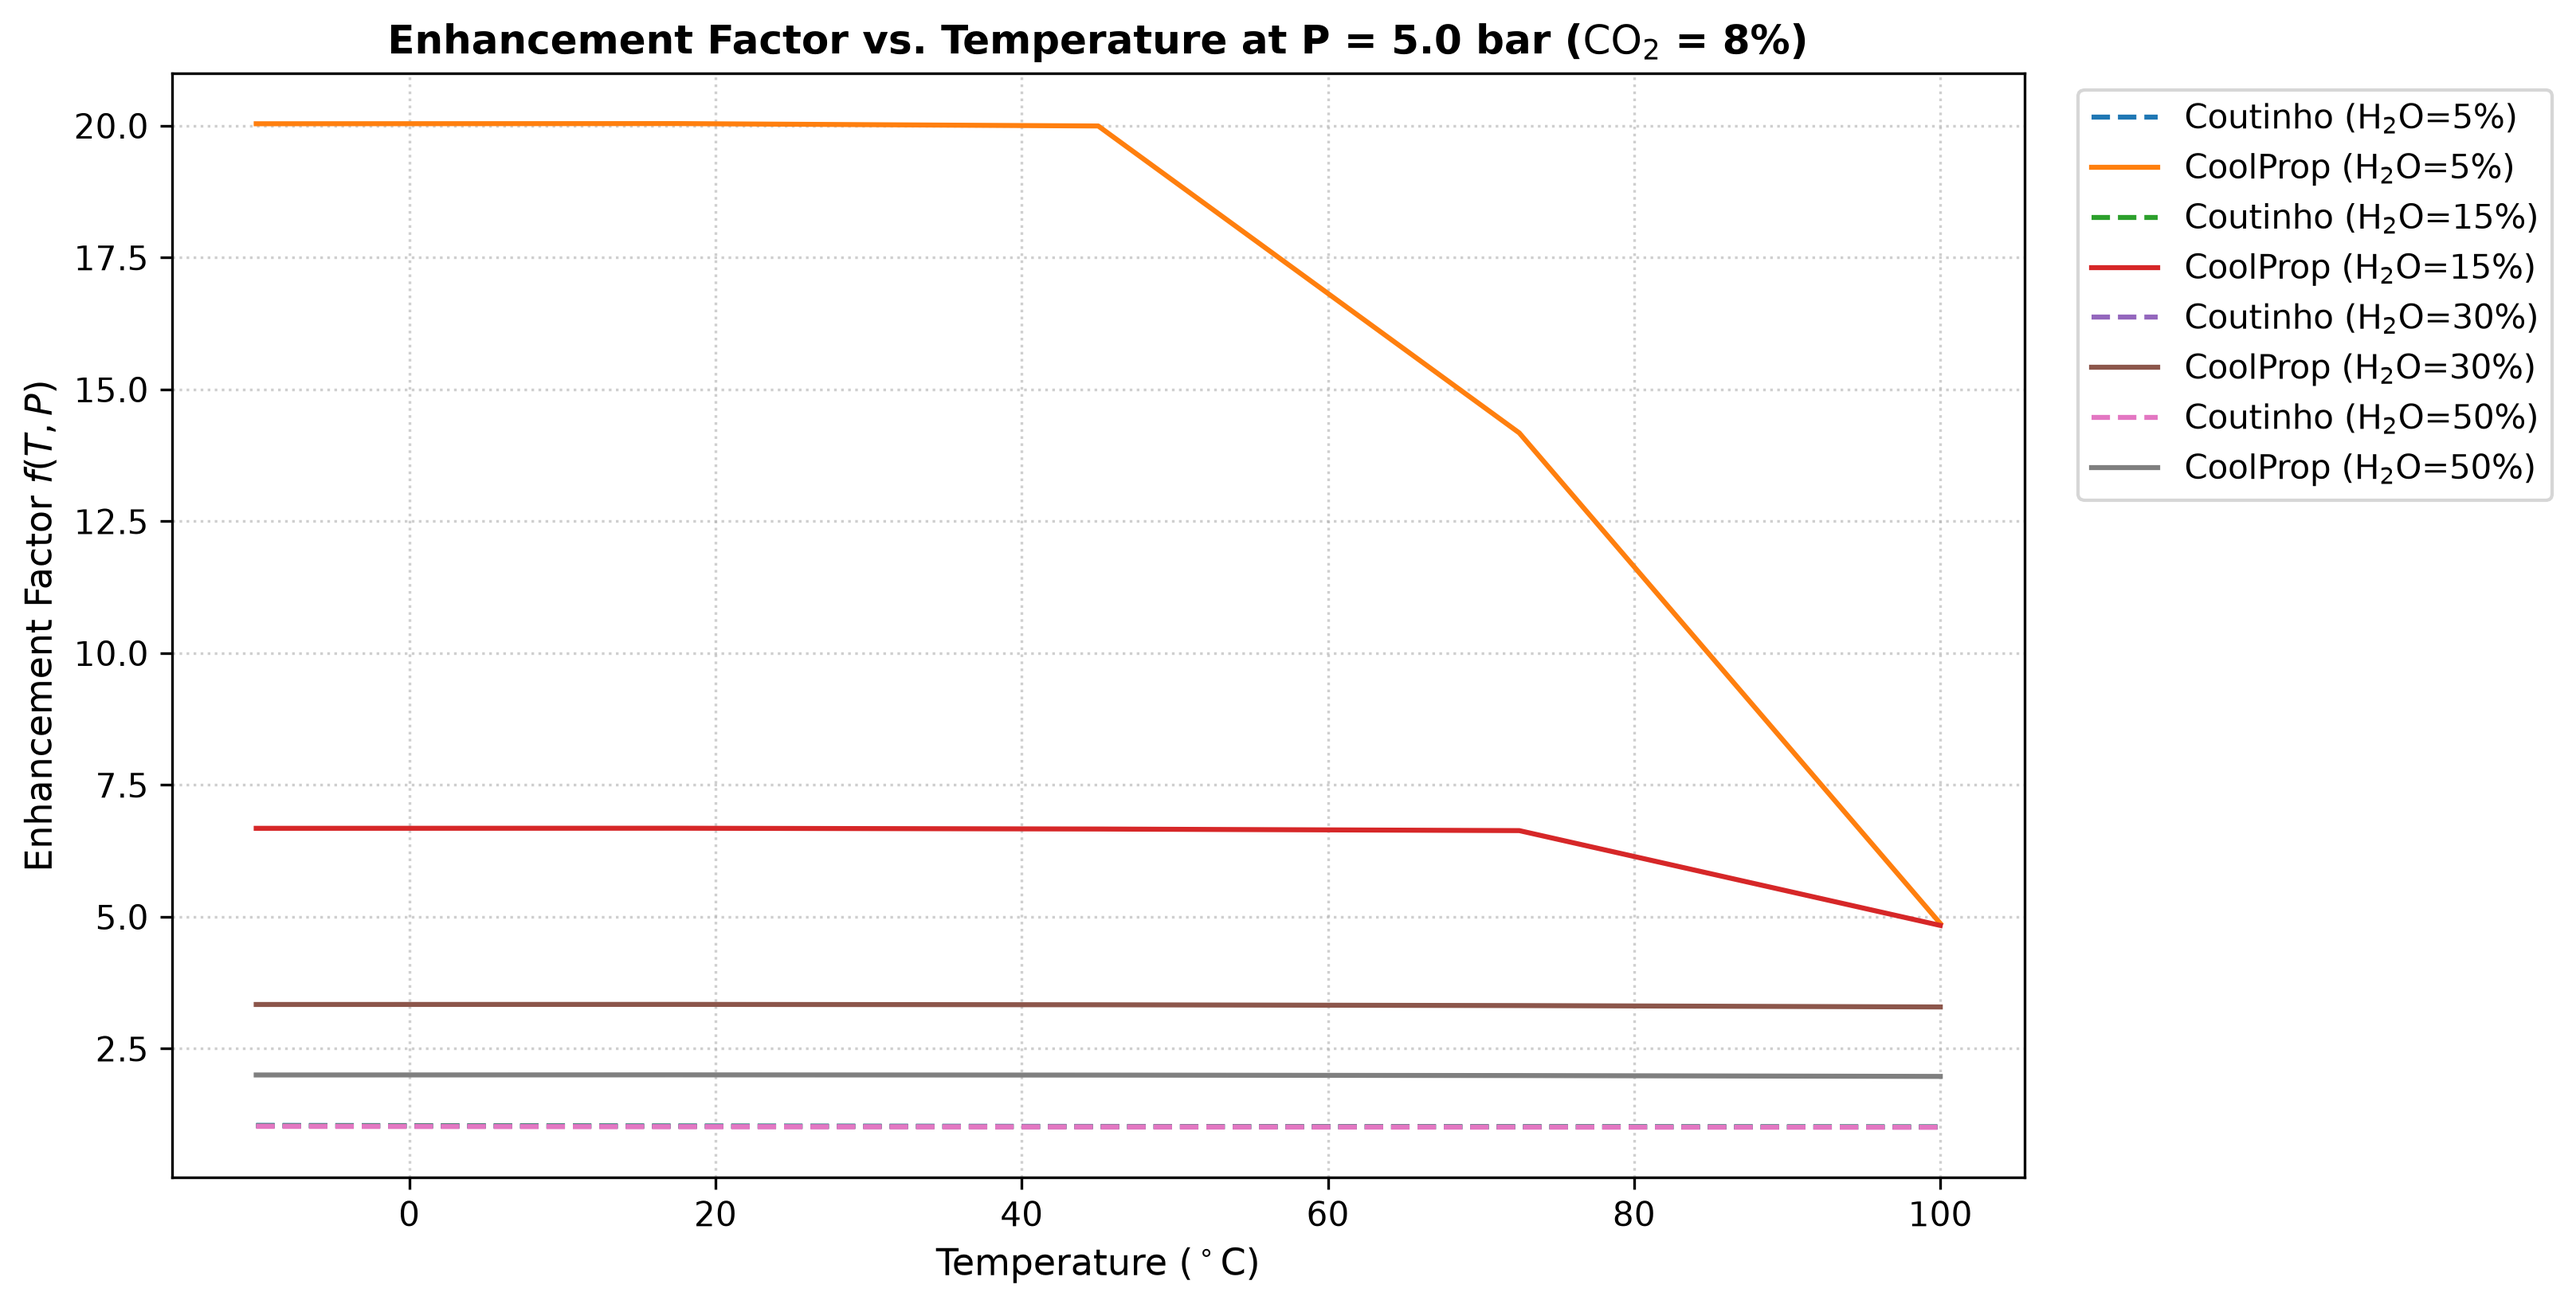
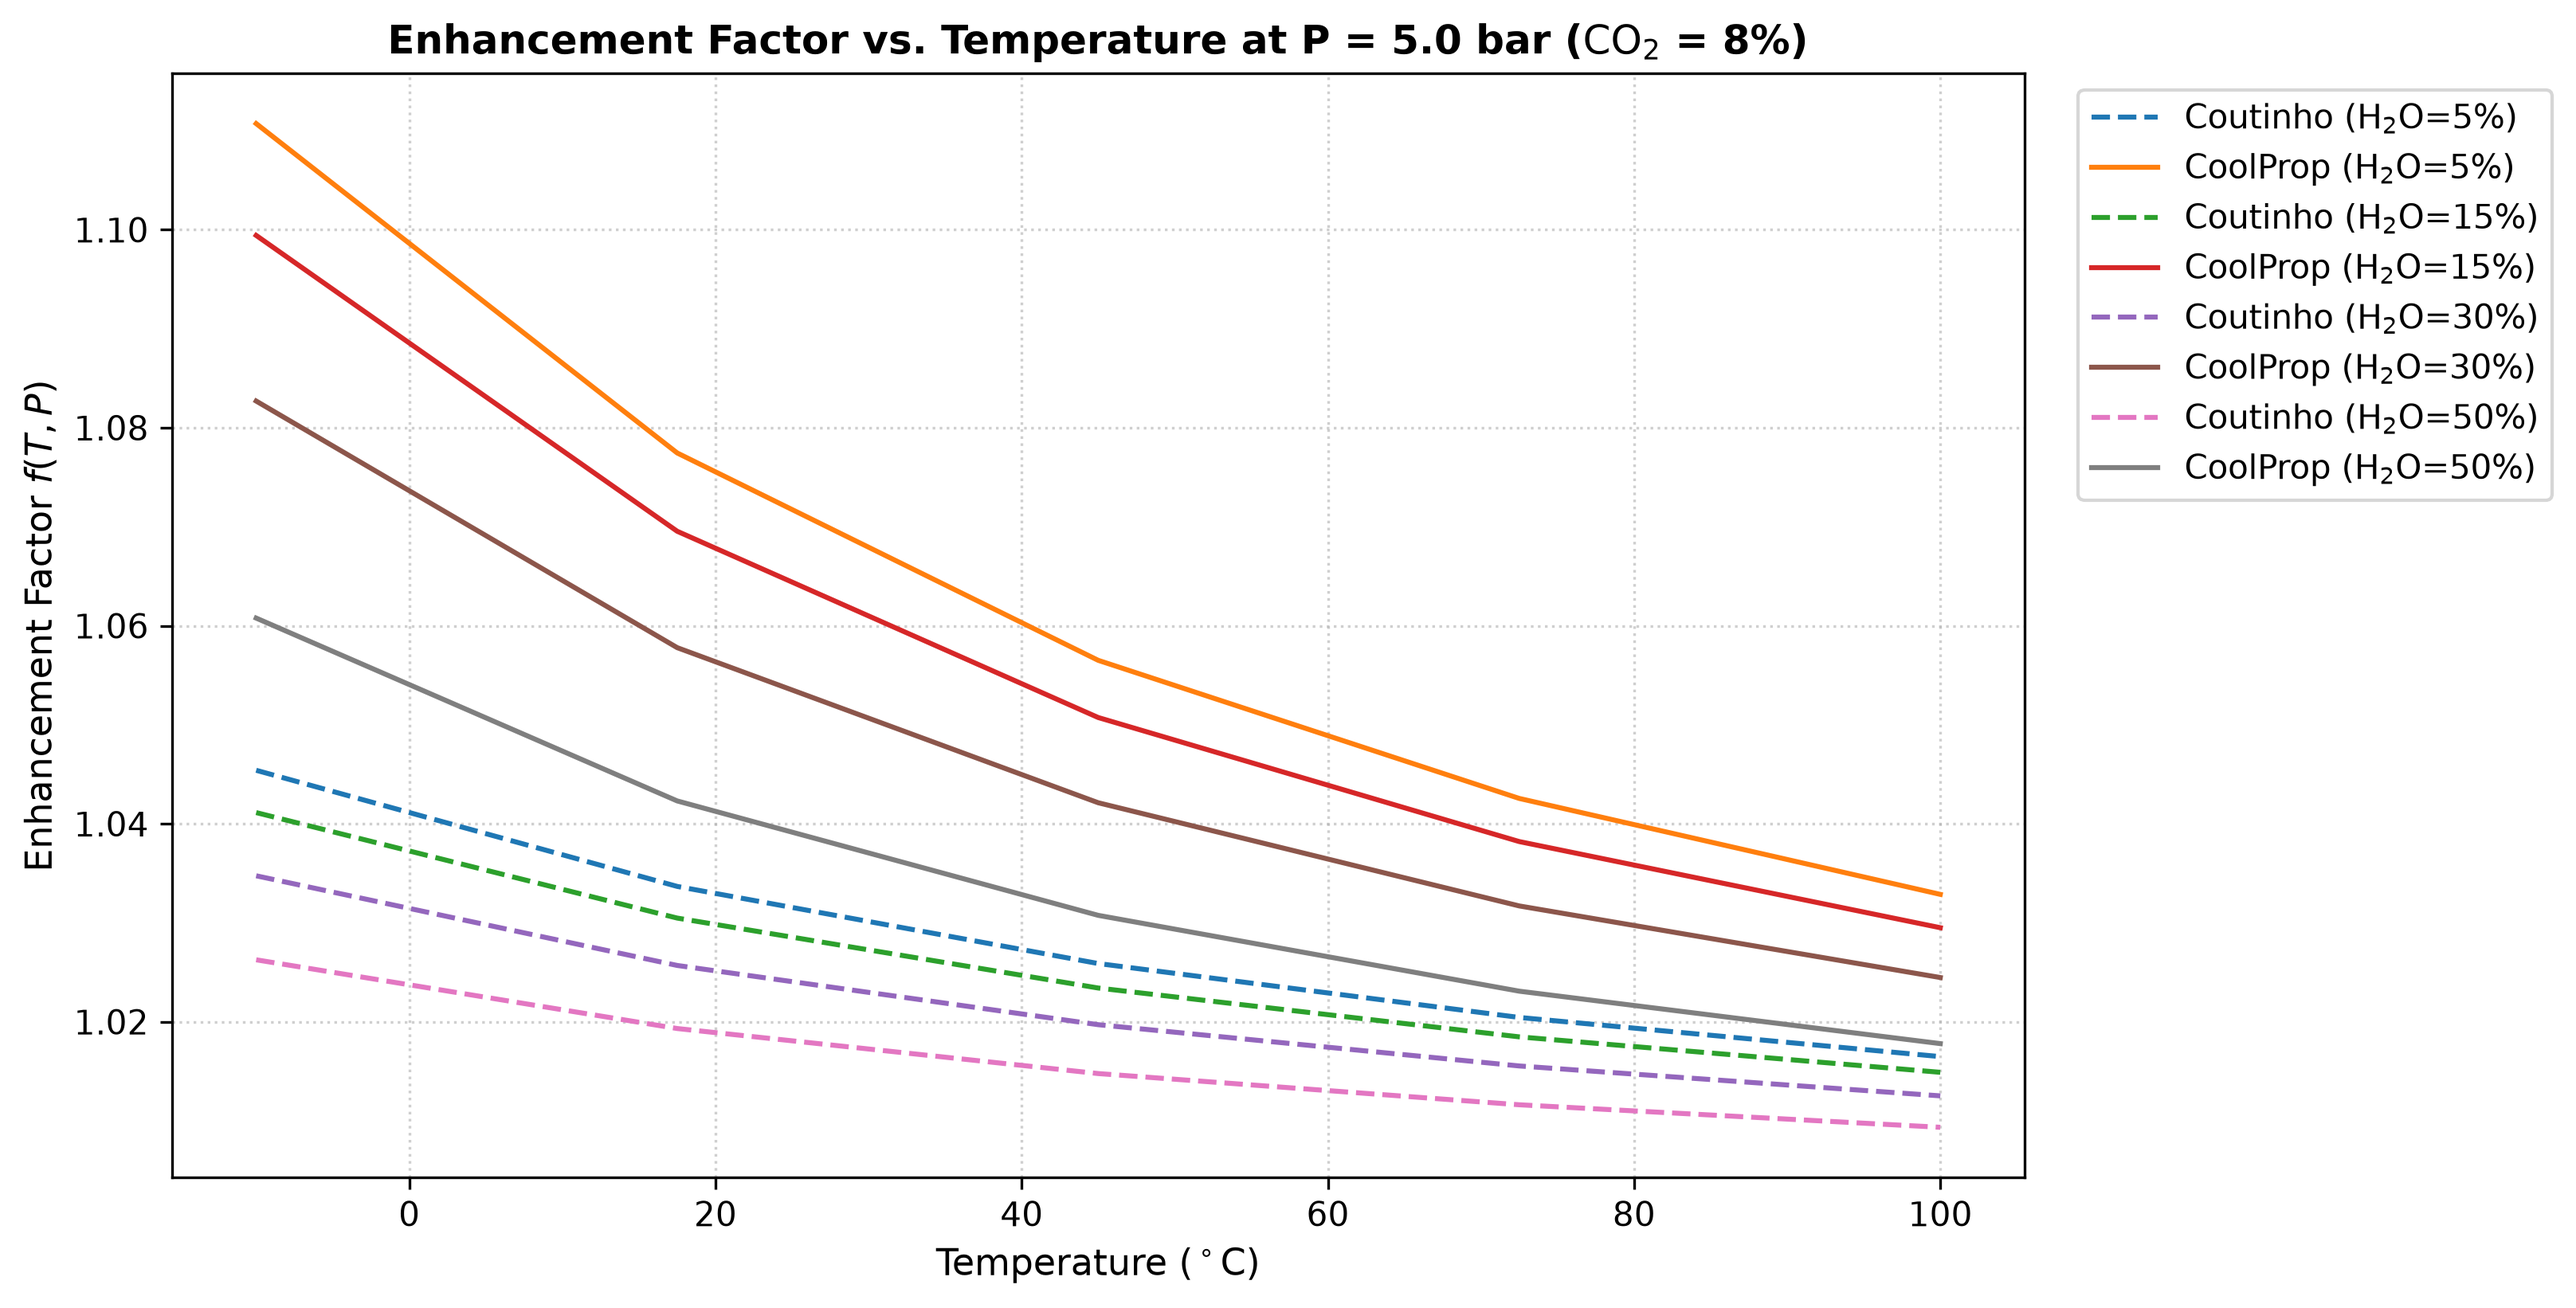
working, finally

diff --git a/benchmark_enhancement.py b/benchmark_enhancement.py
@@ -100,55 +100,54 @@ def f_enhancement_coutinho(T_K, P_bar, y_dict):
 # 3. COOLPROP MODEL IMPLEMENTATION
 # ==============================================================================
 def f_enhancement_coolprop(T_K, P_bar, y_dict):
-    """
-    Computes enhancement factor f(T, P) using CoolProp Cubic Peng-Robinson (PR) model.
-    f = (phi_w_mix * P_total) / (phi_w_pure_sat * P_sat_pure)
-    """
-    P_Pa = P_bar * 1e5
-    y_w = y_dict.get('H2O', 0.0)
+    return f_enhancement_coolprop_gerg_virial(T_K, P_bar, y_dict)
     
+def f_enhancement_coolprop_gerg_virial(T_K, P_bar, y_dict):
+    """
+    Computes f(T, P) using exact GERG-2008 Virial Coefficients extracted from CoolProp.
+    Bypasses phase-flash instability completely.
+    """
+    y_w = y_dict.get('H2O', 0.0)
     if y_w <= 0:
         return 1.0
 
+    v_l = 18.07  # Liquid water molar volume (cm^3/mol)
+    dry_dict = {k: v / (1.0 - y_w) for k, v in y_dict.items() if k != 'H2O'}
+    
     name_map = {'H2O': 'Water', 'CO2': 'CO2', 'N2': 'Nitrogen', 'O2': 'Oxygen'}
     
-    # Clean species list and mole fractions
-    species_list = []
-    mole_fractions = []
-    for comp, mole_frac in y_dict.items():
-        if mole_frac > 0:
-            species_list.append(name_map.get(comp, comp))
-            mole_fractions.append(mole_frac)
-            
+    def get_gerg_B(sp1, sp2, T):
+        """Extracts B_12(T) in cm^3/mol from CoolProp HEOS/GERG2008."""
+        n1, n2 = name_map.get(sp1, sp1), name_map.get(sp2, sp2)
+        if sp1 == sp2:
+            # Pure second virial B(T) in m^3/mol -> convert to cm^3/mol
+            B_m3 = CP.PropsSI('Bvirial', 'T', T, 'P', 1e5, n1)
+            return B_m3 * 1e6
+        else:
+            # Cross second virial B_12(T) using HEOS binary mixture
+            mix_str = f"HEOS::{n1}[0.5]&{n2}[0.5]"
+            B_m3 = CP.PropsSI('Bvirial', 'T', T, 'P', 1e5, mix_str)
+            return B_m3 * 1e6
+
     try:
-        # Use PR backend for smooth multi-component phase stability
-        mix_str = "PR::" + "&".join(species_list)
-        AS_mix = CP.AbstractState(mix_str)
-        AS_mix.set_mole_fractions(mole_fractions)
+        # 1. GERG Dry Gas Virial B_gg
+        B_gg = 0.0
+        for g1, y1 in dry_dict.items():
+            for g2, y2 in dry_dict.items():
+                B_12 = get_gerg_B(g1, g2, T_K)
+                B_gg += y1 * y2 * B_12
+
+        # 2. GERG Cross Virial B_gw (Dry Gas Matrix <-> Water)
+        B_gw = 0.0
+        for g, y_g in dry_dict.items():
+            B_gw += y_g * get_gerg_B(g, 'H2O', T_K)
+
+        # 3. Enhancement Factor
+        term1 = ((1.0 - y_w) * P_bar) / (R * T_K)
+        ln_f = term1 * (B_gg - 2.0 * B_gw + v_l)
+        return np.exp(ln_f)
         
-        # Specify vapor phase calculation explicitly
-        AS_mix.specify_phase(CP.Vapor_phase)
-        AS_mix.update(CP.PT_INPUTS, P_Pa, T_K)
-        
-        water_idx = species_list.index('Water')
-        
-        # Partial fugacity f_w in Pa -> phi_w = f_w / (y_w * P)
-        fugacity_w_mix = AS_mix.fugacity(water_idx)
-        phi_w_mix = fugacity_w_mix / (y_w * P_Pa)
-        
-        # Pure water saturation pressure & pure saturation fugacity coefficient
-        P_sat_pure_Pa = sonntag_vapor_pressure(T_K)
-        
-        AS_pure = CP.AbstractState("PR::Water")
-        AS_pure.update(CP.QT_INPUTS, 1.0, T_K)  # Q=1 saturated vapor
-        phi_w_pure_sat = AS_pure.fugacity(0) / P_sat_pure_Pa
-        
-        # Enhancement Factor formula
-        f_cp = (phi_w_mix * P_Pa) / (phi_w_pure_sat * P_sat_pure_Pa)
-        return f_cp
-        
-    except Exception as e:
-        # Debug fallback if needed
+    except Exception:
         return np.nan
         
 # ==============================================================================
@@ -239,7 +238,7 @@ def run_benchmarking():
     plt.savefig("enhancement_factor_1D_cross_section.png", dpi=300, bbox_inches='tight')
     plt.show()
 
-    print(rf"Benchmarking completed. Maximum absolute deviation $\Delta f$: {delta_max_overall:.6f}")
+    print(rf"Benchmarking completed. Maximum absolute deviation: {delta_max_overall:.6f}")
 
 if __name__ == '__main__':
     run_benchmarking()
